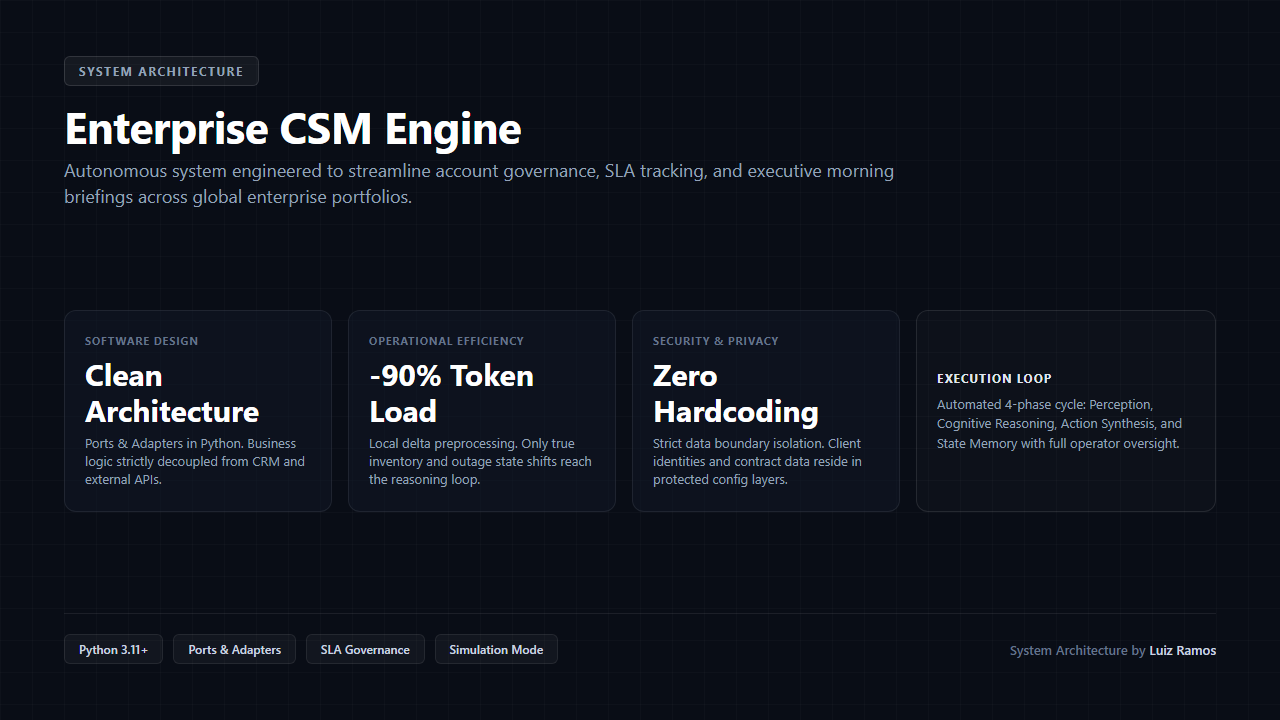
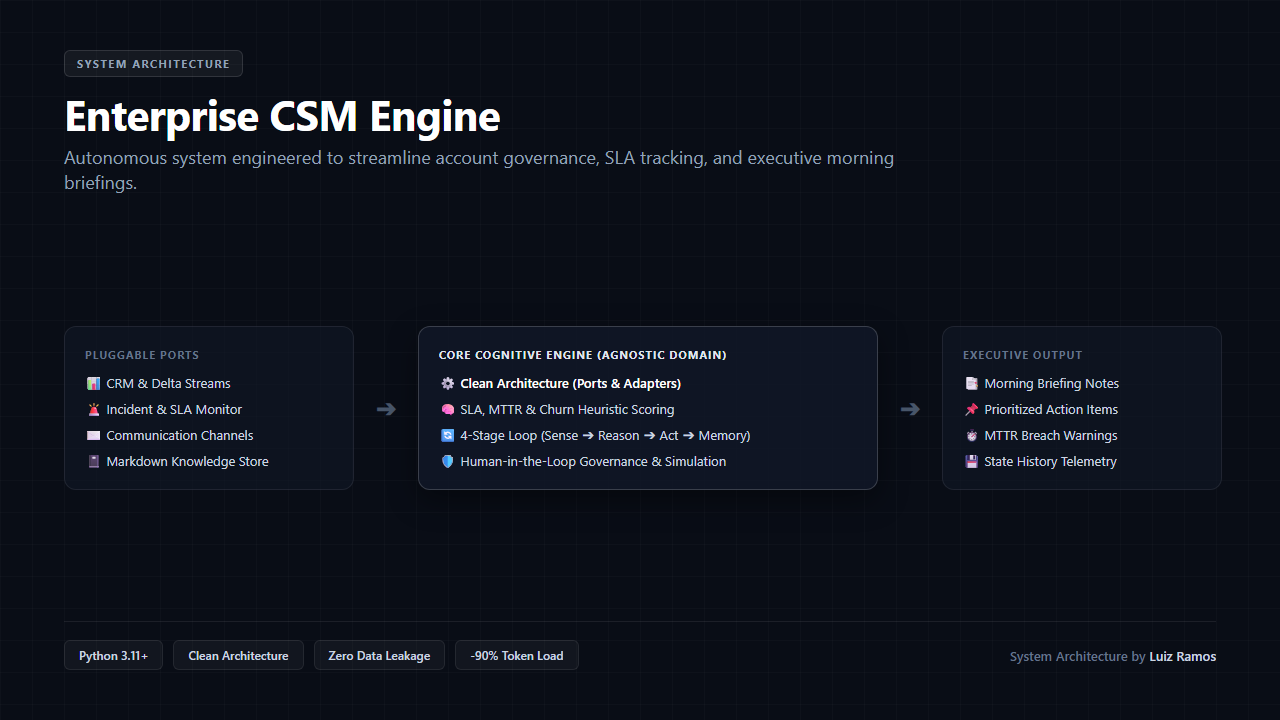
style: apply minimalist flowchart layout to cards 1 & 2 while preserving metric tiles for card 3

diff --git a/assets/linkedin/generate_cards.py b/assets/linkedin/generate_cards.py
@@ -1,6 +1,8 @@
 """
-Generates minimalist, executive, card-based 1280x720 featured cards for LinkedIn and GitHub.
-Unified aesthetic inspired by clean data cockpits: subtle dark slate, crisp metric tiles, and zero sci-fi clutter.
+Generates refined executive featured cards for LinkedIn and GitHub:
+- Card 1: Clean Architecture Flowchart diagram (Ports ➔ Core Engine ➔ Executive Output).
+- Card 2: 4-Stage Sequential Pipeline Process Flowchart (Hygiene ➔ Forecast ➔ Deal Governance ➔ QBRs).
+- Card 3: Executive Metric & KPI Cards for Power BI (The preferred analytics cockpit layout).
 """
 
 import os
@@ -10,13 +12,13 @@ import time
 BASE_DIR = os.path.dirname(os.path.abspath(__file__))
 EDGE_PATH = r"C:\Program Files (x86)\Microsoft\Edge\Application\msedge.exe"
 
-COMMON_CSS = """
+COMMON_BASE_CSS = """
   * { box-sizing: border-box; margin: 0; padding: 0; }
   body {
     width: 1280px; height: 720px; overflow: hidden;
     background: #090d16;
     font-family: -apple-system, BlinkMacSystemFont, "Segoe UI", Roboto, "Inter", sans-serif;
-    color: #f8fafc; padding: 56px 64px; display: flex; flex-direction: column; justify-content: space-between;
+    color: #f8fafc; padding: 50px 64px; display: flex; flex-direction: column; justify-content: space-between;
     position: relative;
   }
   .grid-bg {
@@ -29,33 +31,13 @@ COMMON_CSS = """
   .tag {
     display: inline-block;
     background: rgba(255, 255, 255, 0.05); border: 1px solid rgba(255, 255, 255, 0.12);
-    color: #94a3b8; font-size: 12px; font-weight: 700; text-transform: uppercase;
-    letter-spacing: 1.5px; padding: 6px 14px; border-radius: 6px; margin-bottom: 16px;
+    color: #94a3b8; font-size: 11px; font-weight: 700; text-transform: uppercase;
+    letter-spacing: 1.5px; padding: 5px 12px; border-radius: 6px; margin-bottom: 14px;
   }
-  h1 { font-size: 44px; font-weight: 700; letter-spacing: -0.5px; color: #ffffff; line-height: 1.1; margin-bottom: 8px; }
+  h1 { font-size: 42px; font-weight: 700; letter-spacing: -0.5px; color: #ffffff; line-height: 1.1; margin-bottom: 8px; }
   .subtitle { font-size: 18px; color: #94a3b8; font-weight: 400; max-width: 860px; line-height: 1.4; }
-  
-  /* Unified 4-column card grid */
-  .cards-grid {
-    z-index: 1; display: grid; grid-template-columns: repeat(3, 1fr) 300px; gap: 16px; margin: 24px 0;
-  }
-  .tile {
-    background: rgba(17, 24, 39, 0.55); border: 1px solid rgba(255, 255, 255, 0.08);
-    border-radius: 12px; padding: 22px 20px; display: flex; flex-direction: column; justify-content: space-between;
-  }
-  .tile-label { font-size: 11px; font-weight: 700; color: #64748b; text-transform: uppercase; letter-spacing: 0.8px; margin-bottom: 8px; }
-  .tile-main { font-size: 30px; font-weight: 700; color: #ffffff; margin-bottom: 6px; line-height: 1.2; }
-  .tile-desc { font-size: 13px; color: #94a3b8; line-height: 1.4; }
-  
-  .side-tile {
-    background: rgba(255, 255, 255, 0.02); border: 1px solid rgba(255, 255, 255, 0.1);
-    border-radius: 12px; padding: 22px 20px; display: flex; flex-direction: column; justify-content: center;
-  }
-  .side-title { font-size: 12px; font-weight: 700; color: #e2e8f0; text-transform: uppercase; letter-spacing: 1px; margin-bottom: 8px; }
-  .side-desc { font-size: 13px; color: #94a3b8; line-height: 1.5; }
 
-  /* Footer */
-  .footer { z-index: 1; display: flex; align-items: center; justify-content: space-between; border-top: 1px solid rgba(255,255,255,0.08); padding-top: 20px; }
+  .footer { z-index: 1; display: flex; align-items: center; justify-content: space-between; border-top: 1px solid rgba(255,255,255,0.08); padding-top: 18px; }
   .badges-group { display: flex; gap: 10px; }
   .badge {
     background: rgba(255, 255, 255, 0.04); border: 1px solid rgba(255, 255, 255, 0.08);
@@ -65,12 +47,30 @@ COMMON_CSS = """
   .author span { color: #cbd5e1; font-weight: 600; }
 """
 
+# Card 1: Flowchart Architecture (Ports ➔ Core Cognitive Engine ➔ Executive Output)
 CARD_1_HTML = f"""<!DOCTYPE html>
 <html lang="en">
 <head>
 <meta charset="UTF-8">
 <style>
-{COMMON_CSS}
+{COMMON_BASE_CSS}
+  .flowchart-container {{
+    z-index: 1; display: grid; grid-template-columns: 290px 48px 460px 48px 280px;
+    align-items: center; gap: 8px; margin: 18px 0;
+  }}
+  .box {{
+    background: rgba(17, 24, 39, 0.6); border: 1px solid rgba(255, 255, 255, 0.08);
+    border-radius: 12px; padding: 20px 20px;
+  }}
+  .box.core {{
+    background: rgba(17, 24, 39, 0.85); border: 1px solid rgba(255, 255, 255, 0.18);
+    box-shadow: 0 10px 30px rgba(0, 0, 0, 0.4);
+  }}
+  .box-label {{ font-size: 11px; font-weight: 700; color: #64748b; text-transform: uppercase; letter-spacing: 1px; margin-bottom: 12px; }}
+  .box-label.highlight {{ color: #e2e8f0; }}
+  .list {{ display: flex; flex-direction: column; gap: 9px; font-size: 13px; }}
+  .item {{ display: flex; align-items: center; gap: 8px; color: #cbd5e1; }}
+  .arrow {{ text-align: center; color: #475569; font-size: 22px; font-weight: bold; }}
 </style>
 </head>
 <body>
@@ -78,58 +78,79 @@ CARD_1_HTML = f"""<!DOCTYPE html>
   <div class="header">
     <div class="tag">System Architecture</div>
     <h1>Enterprise CSM Engine</h1>
-    <div class="subtitle">Autonomous system engineered to streamline account governance, SLA tracking, and executive morning briefings across global enterprise portfolios.</div>
+    <div class="subtitle">Autonomous system engineered to streamline account governance, SLA tracking, and executive morning briefings.</div>
   </div>
 
-  <div class="cards-grid">
-    <div class="tile">
-      <div>
-        <div class="tile-label">Software Design</div>
-        <div class="tile-main">Clean Architecture</div>
+  <div class="flowchart-container">
+    <div class="box">
+      <div class="box-label">Pluggable Ports</div>
+      <div class="list">
+        <div class="item">📊 CRM & Delta Streams</div>
+        <div class="item">🚨 Incident & SLA Monitor</div>
+        <div class="item">✉ Communication Channels</div>
+        <div class="item">📓 Markdown Knowledge Store</div>
       </div>
-      <div class="tile-desc">Ports & Adapters in Python. Business logic strictly decoupled from CRM and external APIs.</div>
     </div>
 
-    <div class="tile">
-      <div>
-        <div class="tile-label">Operational Efficiency</div>
-        <div class="tile-main">-90% Token Load</div>
+    <div class="arrow">➔</div>
+
+    <div class="box core">
+      <div class="box-label highlight">Core Cognitive Engine (Agnostic Domain)</div>
+      <div class="list">
+        <div class="item" style="color:#ffffff; font-weight:600;">⚙ Clean Architecture (Ports & Adapters)</div>
+        <div class="item">🧠 SLA, MTTR & Churn Heuristic Scoring</div>
+        <div class="item">🔄 4-Stage Loop (Sense ➔ Reason ➔ Act ➔ Memory)</div>
+        <div class="item">🛡 Human-in-the-Loop Governance & Simulation</div>
       </div>
-      <div class="tile-desc">Local delta preprocessing. Only true inventory and outage state shifts reach the reasoning loop.</div>
     </div>
 
-    <div class="tile">
-      <div>
-        <div class="tile-label">Security & Privacy</div>
-        <div class="tile-main">Zero Hardcoding</div>
-      </div>
-      <div class="tile-desc">Strict data boundary isolation. Client identities and contract data reside in protected config layers.</div>
-    </div>
+    <div class="arrow">➔</div>
 
-    <div class="side-tile">
-      <div class="side-title">Execution Loop</div>
-      <div class="side-desc">Automated 4-phase cycle: Perception, Cognitive Reasoning, Action Synthesis, and State Memory with full operator oversight.</div>
+    <div class="box">
+      <div class="box-label">Executive Output</div>
+      <div class="list">
+        <div class="item">📑 Morning Briefing Notes</div>
+        <div class="item">📌 Prioritized Action Items</div>
+        <div class="item">⏱ MTTR Breach Warnings</div>
+        <div class="item">💾 State History Telemetry</div>
+      </div>
     </div>
   </div>
 
   <div class="footer">
     <div class="badges-group">
       <div class="badge">Python 3.11+</div>
-      <div class="badge">Ports & Adapters</div>
-      <div class="badge">SLA Governance</div>
-      <div class="badge">Simulation Mode</div>
+      <div class="badge">Clean Architecture</div>
+      <div class="badge">Zero Data Leakage</div>
+      <div class="badge">-90% Token Load</div>
     </div>
     <div class="author">System Architecture by <span>Luiz Ramos</span></div>
   </div>
 </body>
 </html>"""
 
+# Card 2: 4-Stage Sequential Process Flowchart (Hygiene ➔ Forecast ➔ Execution ➔ QBRs)
 CARD_2_HTML = f"""<!DOCTYPE html>
 <html lang="en">
 <head>
 <meta charset="UTF-8">
 <style>
-{COMMON_CSS}
+{COMMON_BASE_CSS}
+  .pipeline-flow {{
+    z-index: 1; display: grid; grid-template-columns: 1fr 24px 1fr 24px 1fr 24px 1fr;
+    align-items: center; gap: 4px; margin: 20px 0;
+  }}
+  .step-box {{
+    background: rgba(17, 24, 39, 0.6); border: 1px solid rgba(255, 255, 255, 0.08);
+    border-radius: 12px; padding: 22px 18px; display: flex; flex-direction: column; justify-content: space-between;
+    min-height: 200px;
+  }}
+  .step-num {{ font-size: 11px; font-weight: 800; color: #64748b; text-transform: uppercase; letter-spacing: 1px; margin-bottom: 6px; }}
+  .step-title {{ font-size: 16px; font-weight: 700; color: #ffffff; margin-bottom: 12px; line-height: 1.2; }}
+  .step-items {{ display: flex; flex-direction: column; gap: 7px; font-size: 13px; color: #94a3b8; list-style: none; }}
+  .step-items li {{ display: flex; align-items: center; gap: 6px; }}
+  .step-items li::before {{ content: "•"; color: #475569; font-size: 14px; }}
+  .flow-arrow {{ text-align: center; color: #475569; font-size: 18px; font-weight: bold; }}
 </style>
 </head>
 <body>
@@ -137,58 +158,101 @@ CARD_2_HTML = f"""<!DOCTYPE html>
   <div class="header">
     <div class="tag">Commercial Governance</div>
     <h1>Sales Operations Playbooks</h1>
-    <div class="subtitle">Operational frameworks designed for enterprise B2B sales cycles, forecast discipline, pipeline health, and commercial governance.</div>
+    <div class="subtitle">Operational process frameworks for enterprise B2B sales cycles, forecast discipline, and pipeline health.</div>
   </div>
 
-  <div class="cards-grid">
-    <div class="tile">
+  <div class="pipeline-flow">
+    <div class="step-box">
       <div>
-        <div class="tile-label">Pipeline Inspection</div>
-        <div class="tile-main">Stage Gate Criteria</div>
+        <div class="step-num">Phase 01</div>
+        <div class="step-title">Pipeline Hygiene</div>
+        <ul class="step-items">
+          <li>Stage Gate Validation</li>
+          <li>Stalled Deal Detection</li>
+          <li>Conversion Velocity</li>
+        </ul>
       </div>
-      <div class="tile-desc">Standardized qualification rules, stalled deal detection, and conversion velocity governance.</div>
     </div>
 
-    <div class="tile">
+    <div class="flow-arrow">➔</div>
+
+    <div class="step-box">
       <div>
-        <div class="tile-label">Predictability</div>
-        <div class="tile-main">Forecast Cadence</div>
+        <div class="step-num">Phase 02</div>
+        <div class="step-title">Forecast Cadence</div>
+        <ul class="step-items">
+          <li>Commit vs Best Case</li>
+          <li>Weekly Operating Rhythm</li>
+          <li>Variance Tracking</li>
+        </ul>
       </div>
-      <div class="tile-desc">Weekly operating rhythm, commit vs best-case variance analysis, and historical delivery tracking.</div>
     </div>
 
-    <div class="tile">
+    <div class="flow-arrow">➔</div>
+
+    <div class="step-box">
       <div>
-        <div class="tile-label">Deal Execution</div>
-        <div class="tile-main">Contract SLAs</div>
+        <div class="step-num">Phase 03</div>
+        <div class="step-title">Deal Governance</div>
+        <ul class="step-items">
+          <li>Contract Approvals</li>
+          <li>Billing Dispute Control</li>
+          <li>Early Handover SLAs</li>
+        </ul>
       </div>
-      <div class="tile-desc">Margin protection, billing dispute prevention, zero-cost adjustments, and seamless delivery handoffs.</div>
     </div>
 
-    <div class="side-tile">
-      <div class="side-title">Executive Rhythm</div>
-      <div class="side-desc">Structured cadence for Quarterly Business Reviews (QBRs), win/loss retrospectives, and cross-functional alignment.</div>
+    <div class="flow-arrow">➔</div>
+
+    <div class="step-box">
+      <div>
+        <div class="step-num">Phase 04</div>
+        <div class="step-title">Executive Reviews</div>
+        <ul class="step-items">
+          <li>QBR Cadence Structure</li>
+          <li>Win/Loss Post-Mortems</li>
+          <li>Cross-Team Alignment</li>
+        </ul>
+      </div>
     </div>
   </div>
 
   <div class="footer">
     <div class="badges-group">
-      <div class="badge">Sales Governance</div>
       <div class="badge">Pipeline Health</div>
       <div class="badge">Forecast Discipline</div>
-      <div class="badge">Deal Execution</div>
+      <div class="badge">Contract SLAs</div>
+      <div class="badge">Executive QBRs</div>
     </div>
     <div class="author">Frameworks by <span>Luiz Ramos</span></div>
   </div>
 </body>
 </html>"""
 
+# Card 3: Metric & KPI Cards (The user's favorite layout)
 CARD_3_HTML = f"""<!DOCTYPE html>
 <html lang="en">
 <head>
 <meta charset="UTF-8">
 <style>
-{COMMON_CSS}
+{COMMON_BASE_CSS}
+  .cards-grid {{
+    z-index: 1; display: grid; grid-template-columns: repeat(3, 1fr) 300px; gap: 16px; margin: 24px 0;
+  }}
+  .tile {{
+    background: rgba(17, 24, 39, 0.6); border: 1px solid rgba(255, 255, 255, 0.08);
+    border-radius: 12px; padding: 22px 20px; display: flex; flex-direction: column; justify-content: space-between;
+  }}
+  .tile-label {{ font-size: 11px; font-weight: 700; color: #64748b; text-transform: uppercase; letter-spacing: 0.8px; margin-bottom: 8px; }}
+  .tile-main {{ font-size: 34px; font-weight: 700; color: #ffffff; margin-bottom: 6px; }}
+  .tile-desc {{ font-size: 13px; color: #94a3b8; line-height: 1.4; }}
+
+  .side-tile {{
+    background: rgba(255, 255, 255, 0.02); border: 1px solid rgba(255, 255, 255, 0.1);
+    border-radius: 12px; padding: 22px 20px; display: flex; flex-direction: column; justify-content: center;
+  }}
+  .side-title {{ font-size: 12px; font-weight: 700; color: #e2e8f0; text-transform: uppercase; letter-spacing: 1px; margin-bottom: 8px; }}
+  .side-desc {{ font-size: 13px; color: #94a3b8; line-height: 1.5; }}
 </style>
 </head>
 <body>
